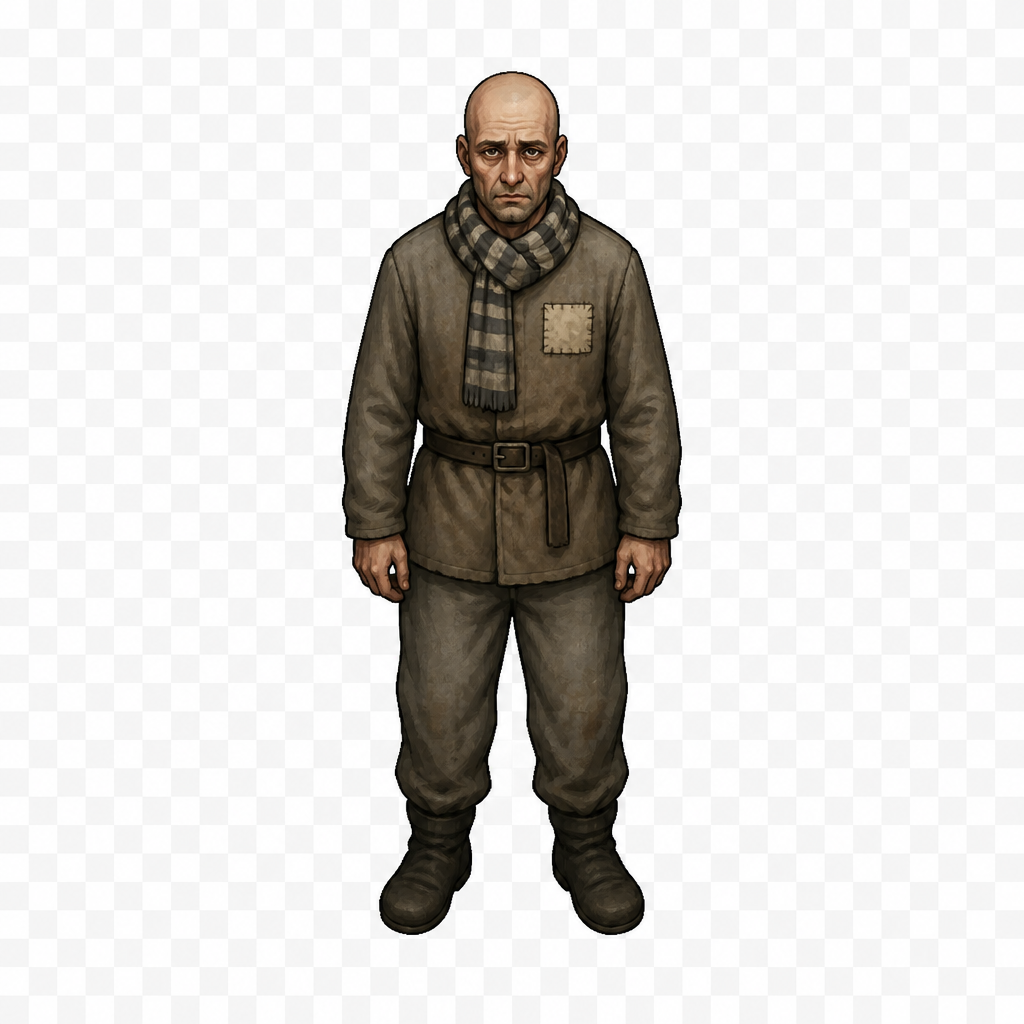
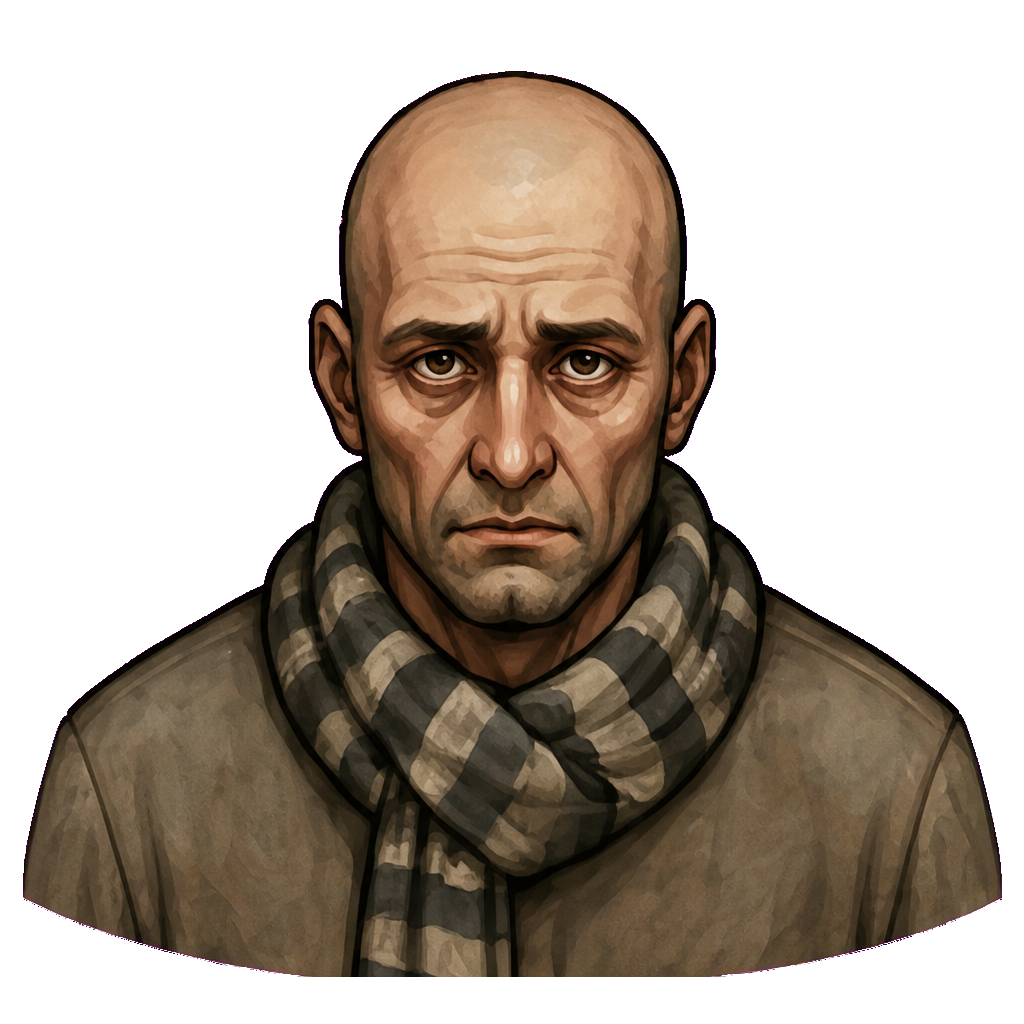
Use a transparent head-and-shoulders player sprite
Replace the full-body gulag sprite (opaque white backdrop) with a
bust cut and a real PNG alpha channel so the mansion floor shows
around the silhouette in the top-down view.

diff --git a/src/scenes/MainPlayScene.ts b/src/scenes/MainPlayScene.ts
@@ -65,18 +65,18 @@ export class MainPlayScene extends Phaser.Scene {
     this.input.on("pointerup", this.onPointerUp, this);
     this.input.on("pointerupoutside", this.onPointerUp, this);
 
-    // Player sprite
+    // Player sprite: head-and-shoulders token with transparent PNG alpha.
     this.player = this.physics.add.image(width / 2, height * 0.68, "gulag-prisoner");
     this.player.setDepth(2);
     this.player.setDrag(600, 600);
     this.player.setMaxVelocity(240, 240);
     this.player.setCollideWorldBounds(false);
 
-    // Scale to a consistent in-world size.
-    const desiredSpriteWidth = Math.min(44, width * 0.04);
+    const desiredSpriteWidth = Math.min(64, width * 0.055);
     const scale = desiredSpriteWidth / this.player.width;
     this.player.setScale(scale);
-    this.player.setCircle((Math.min(this.player.displayWidth, this.player.displayHeight) * 0.35) / this.player.scaleX);
+    const bodyRadius = (desiredSpriteWidth * 0.38) / this.player.scaleX;
+    this.player.setCircle(bodyRadius);
 
     this.createMansionPhysics(width, height);
 
